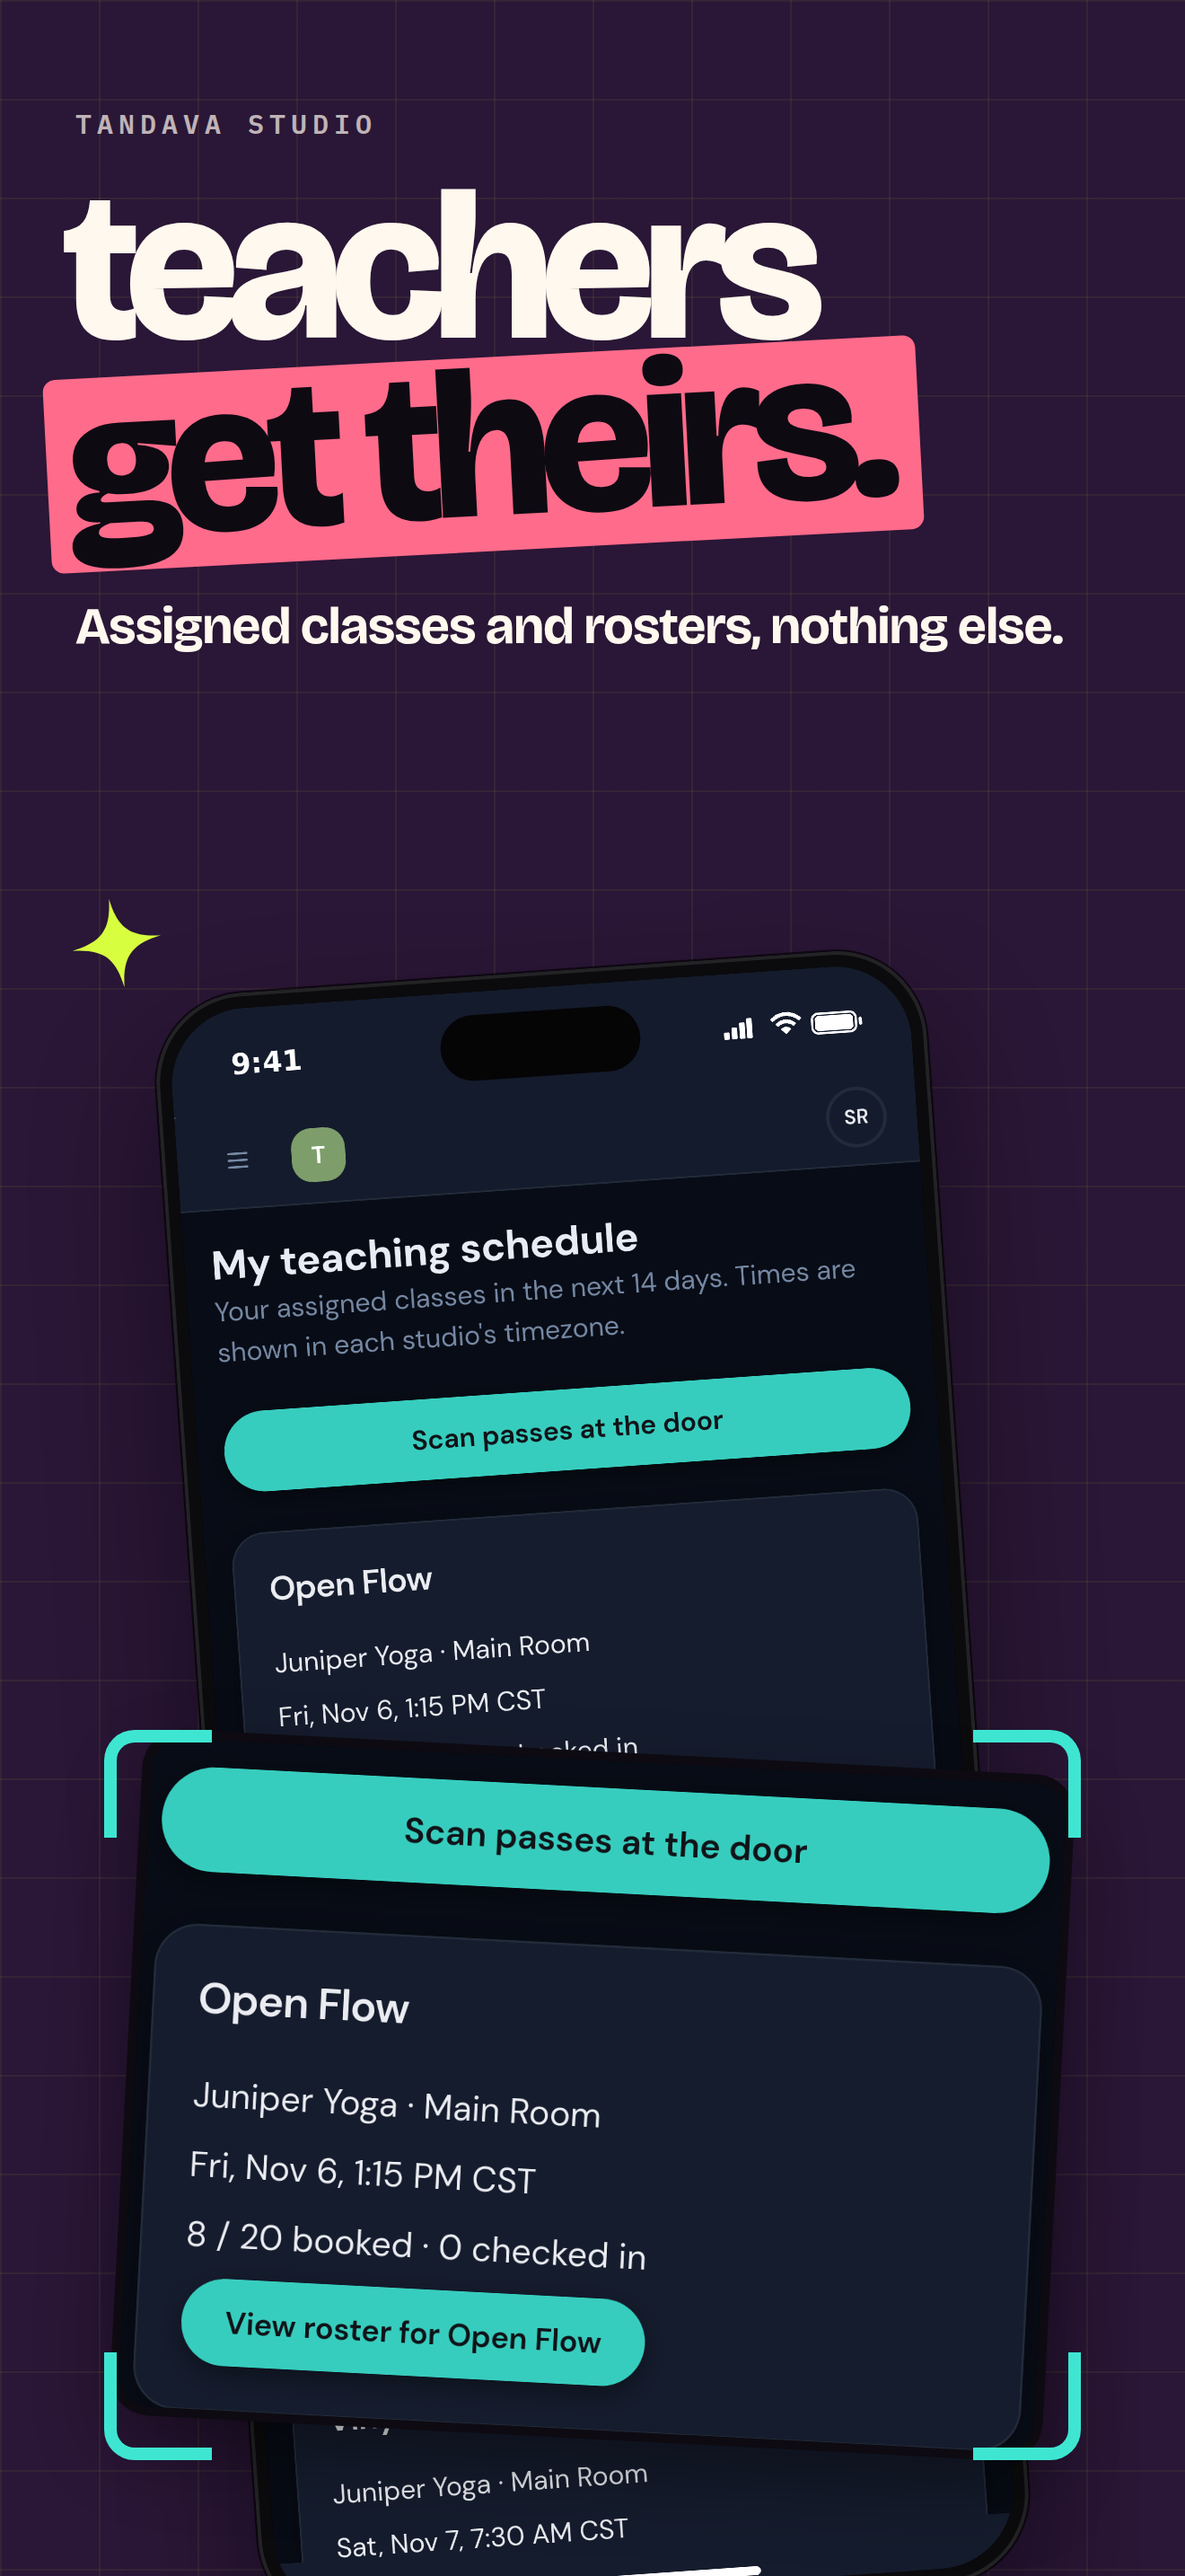
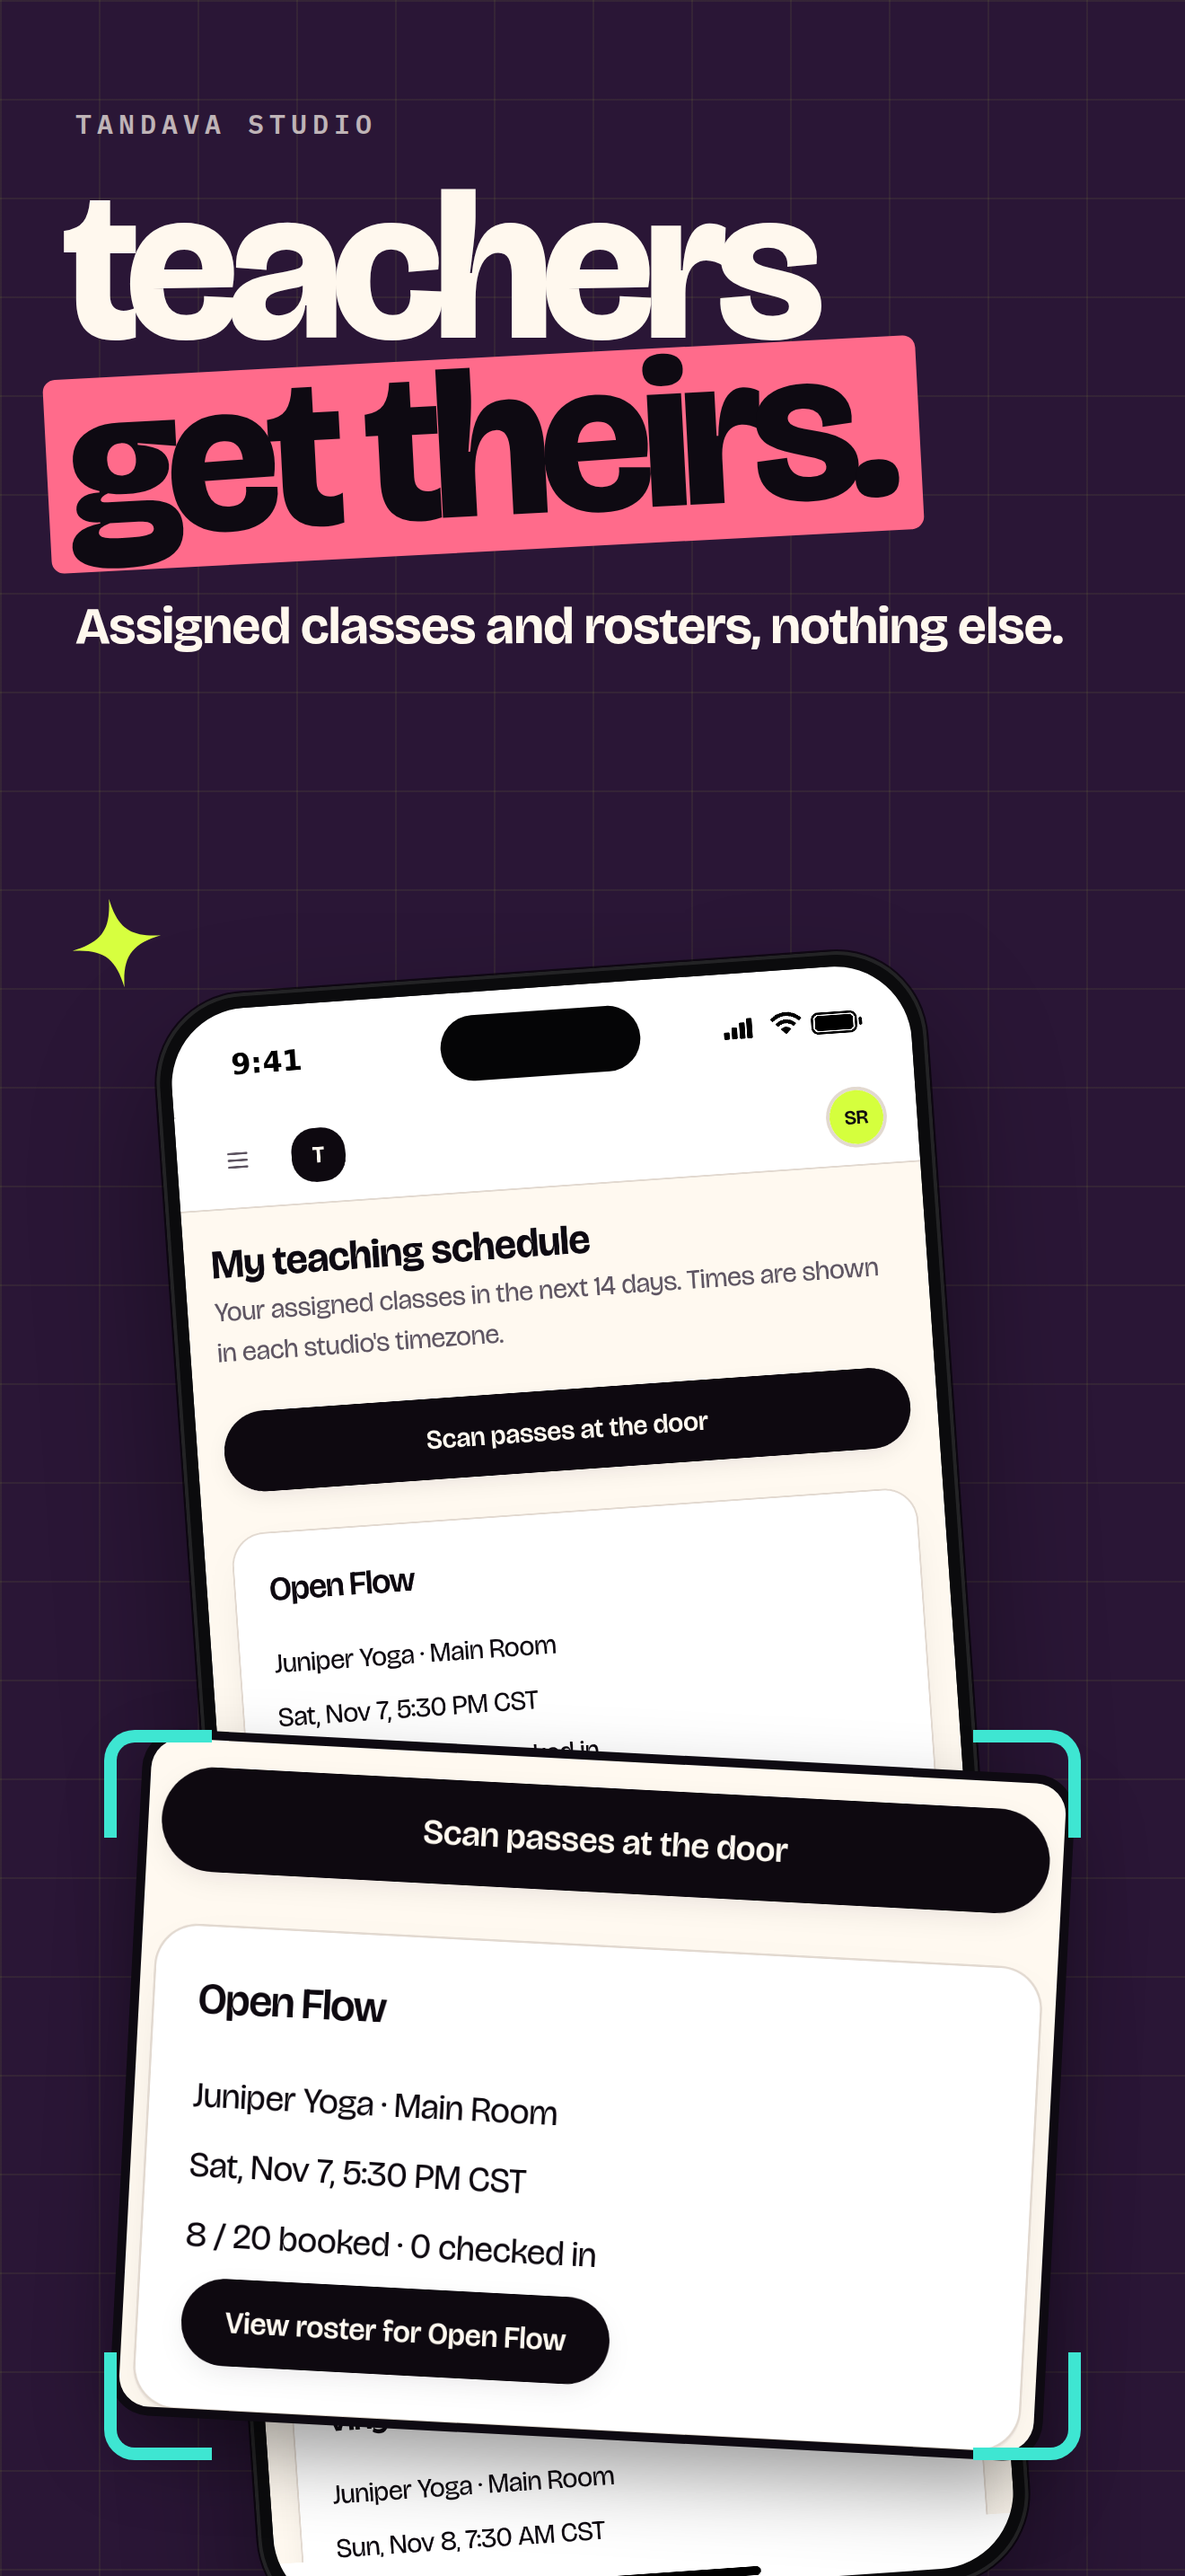
Tandava Studio 1.0 listing: redesign screenshots, App Store text, Play package (#122)
- native/studio/store/screenshots/en-US: the 7 redesign frames (1320x2868).
- native/studio/store/metadata: name, subtitle, keywords, promo text,
  description, URLs, categories and copyright from docs/store/listing-1.0.md
  (variant A).
- codemagic.yaml studio-ios-screenshots now uploads the text too. Still no
  binary, review information, age rating or submission.
- native/studio/store/play: Play images and paste-ready listing, content
  rating, data safety and app access answers.

diff --git a/native/studio/store/play/listing.md b/native/studio/store/play/listing.md
@@ -1,0 +1,95 @@
+# Tandava Studio on Google Play: listing package (Nov 8, 2026)
+
+App: Tandava Studio, package `com.tandava.studio`, developer account **Purafield Studio LLC** (never a personal account). Free, no ads, no in-app purchases. Phone only.
+Images in this folder: `icon-512.png`, `feature-graphic.png` (1024x500), `phone-01.png` to `phone-07.png` (1080x1920). Text below is paste-ready. No em dashes.
+
+## Main store listing (Grow users > Store presence > Main store listing)
+
+- **App name (30):** Tandava Studio: Class Check-In
+- **Short description (80):** Scan members in at the door, check rosters and edit your yoga studio's week.
+- **Full description:** the block below.
+
+```
+Check members in at the door in a second.
+
+Tandava Studio is the staff app for yoga, pilates and barre studios that run on Tandava. Point your camera at a member's check-in pass, feel the vibration, and they're in. No clipboard. No laptop on the front desk.
+
+SCAN THEM IN
+- Tap Scan passes and point your camera at the member's pass.
+- A green card and a quick vibration tell you they're checked in.
+- Already in? The app says so and nothing changes. Keep scanning.
+- Waitlisted, cancelled or too early? You see why right away.
+- A running count shows how many people you've checked in.
+- Front desk and owners can scan anyone booked at the studio. Teachers scan for the classes they teach.
+
+NO PASS? TAP THE ROSTER
+- Open the class and tap Check in next to a name.
+- A check-in only shows as done once Tandava has saved it.
+
+FOR TEACHERS
+- See the classes you teach for the next 14 days.
+- Open each roster to see who's coming.
+
+FOR OWNERS
+- See today's classes on one screen.
+- Add classes to your weekly schedule and change times.
+- Set drop-in, class pack and membership prices.
+- Share your booking page from your phone's share menu.
+
+MADE FOR THE DOOR
+- Big buttons you can use with one hand.
+- A clear banner when you're offline.
+
+HOW IT WORKS
+Tandava Studio is for staff at studios that use Tandava. Sign in with the email your studio invited. Studio owners set up their studio and invite staff from the Tandava dashboard on the web. Members show their check-in pass from My Schedule in Tandava.
+
+Questions? Email hello@purafieldstudio.com.
+```
+
+## Store settings (Grow users > Store presence > Store settings)
+
+- **App category:** Business. **Tags:** Business management, Productivity (pick the closest offered).
+- **Contact email:** hello@purafieldstudio.com
+- **Website:** https://tandavastudio.com/for-studios
+- **Phone:** the Purafield business phone only (never Taylor's personal number), or leave empty.
+
+## App content (Policy and programs > App content)
+
+| Section | Answer |
+|---|---|
+| Privacy policy | https://tandavastudio.com/privacy |
+| App access | All or some functionality is restricted. Instructions: "Sign in with the owner account below. Tap Scan passes to check a member in, or open a class roster and tap Check in." Username: review-owner@purafieldstudio.com. Password: typed by Taylor only. |
+| Ads | No, the app does not contain ads |
+| Content rating (IARC) | Category: All other app types (Utility/Productivity). Every content question: No. Shares location: No. Users interact or exchange content: No. Digital purchases: No. Expected: Everyone / PEGI 3 |
+| Target audience | 18 and over only. Not designed for children |
+| News app | No |
+| COVID-19 contact tracing | No |
+| Data safety | See below |
+| Government app | No |
+| Financial features | My app doesn't provide any financial features |
+| Health apps | My app does not have any health features |
+| Account deletion URL | https://tandavastudio.com/support (section "Deleting your account or data") |
+
+## Data safety
+
+- Collects or shares any required user data: **Yes**. Encrypted in transit: **Yes**. Users can request deletion: **Yes**. Account creation: the app only signs in; accounts are made on the web (choose "My app lets users log in with accounts created outside the app" if offered).
+- Shared with third parties: **No** (Supabase, Cloudflare and Sentry act as service providers).
+
+| Data type | Collected | Optional? | Purpose |
+|---|---|---|---|
+| Personal info: Name | Yes | Required | App functionality, Account management |
+| Personal info: Email address | Yes | Required | App functionality, Account management |
+| Personal info: Phone number | Yes | Optional | App functionality |
+| Personal info: Other info (pronouns, date of birth, emergency contact) | Yes | Optional | App functionality |
+| Personal info: User IDs | Yes | Required | App functionality, Account management |
+| App activity: Other user-generated content (class schedule, prices an owner saves) | Yes | Required | App functionality |
+| App info and performance: Diagnostics (Cloudflare bot check on sign-in) | Yes | Required | Fraud prevention, security and compliance |
+| App info and performance: Crash logs | Only if Sentry is on in the build (`VITE_SENTRY_DSN`) | | App functionality |
+| Photos and videos | **No.** The camera reads the QR pass on the phone; only the pass text is sent | | |
+| Location, contacts, financial info, health, messages, web history | No | | |
+
+## Release (Test and release)
+
+1. Internal testing first: upload the signed AAB from Codemagic workflow `studio-android-aab`, release name `1.0 (1xx)`.
+2. Production needs a closed test with 12 testers for 14 days on a new personal-style account. Check whether Purafield Studio LLC (organization account) is exempt before planning that.
+3. Nothing is sent for review without Taylor's yes.
